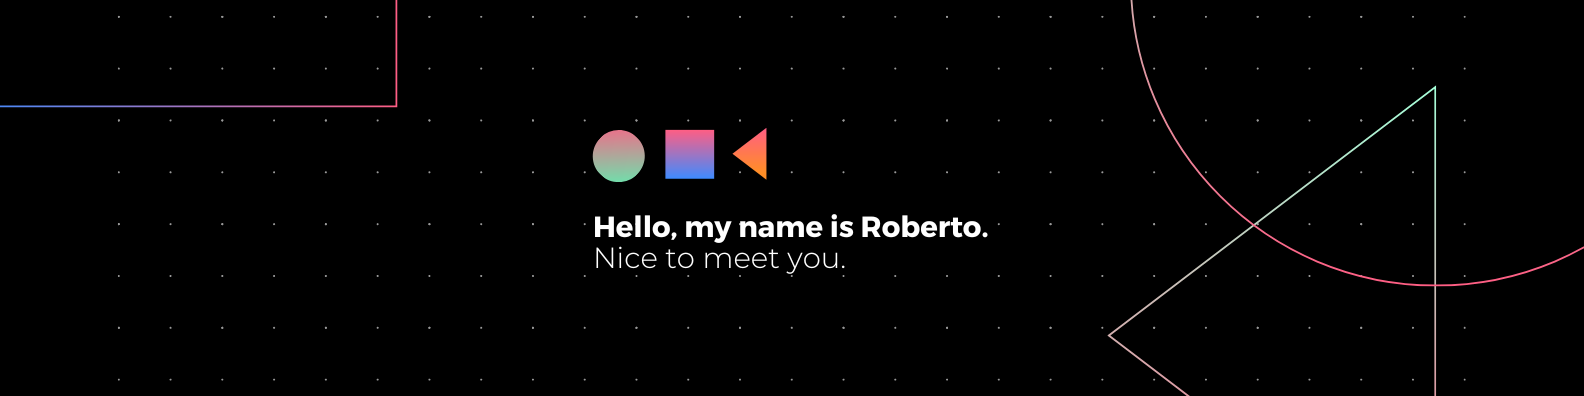
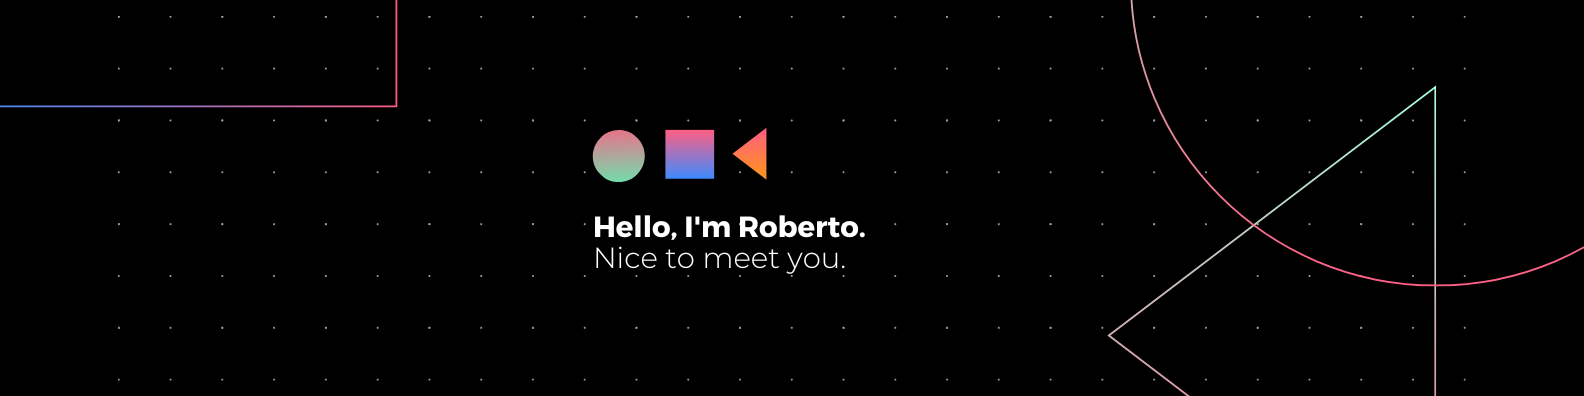
docs: revamp :memo:

Changed region(s): [[0.4331, 0.5455, 0.6187, 0.6061]]

diff --git a/README.md b/README.md
@@ -1,26 +1,35 @@
 ![banner](images/banner.png)
 
-# Hello, I'm Roberto.
+<h1>
+    <picture>
+        <source srcset="https://fonts.gstatic.com/s/e/notoemoji/latest/1f44b_1f3fb/512.webp" type="image/webp">
+        <img src="https://fonts.gstatic.com/s/e/notoemoji/latest/1f44b_1f3fb/512.gif" alt="👋" width="32" height="32">
+    </picture>
+   Hello, I'm Roberto. 
+</h1>
 
 ![Arch](https://img.shields.io/badge/Arch%20Linux-1793D1?logo=arch-linux&logoColor=fff&style=for-the-badge)
 ![iOS](https://img.shields.io/badge/iOS-000000?style=for-the-badge&logo=ios&logoColor=white)
 ![Firefox](https://img.shields.io/badge/Firefox-FF7139?style=for-the-badge&logo=Firefox-Browser&logoColor=white)
 ![PyCharm](https://img.shields.io/badge/pycharm-143?style=for-the-badge&logo=pycharm&logoColor=black&color=black&labelColor=green)
 
-## MSc Artificial Intelligence @ VU Amsterdam
+<h2>
+    <picture>
+        <source srcset="https://fonts.gstatic.com/s/e/notoemoji/latest/1f393/512.webp" type="image/webp">
+        <img src="https://fonts.gstatic.com/s/e/notoemoji/latest/1f393/512.gif" alt="🎓" width="32" height="32">
+    </picture>
+    MSc Artificial Intelligence @ VU Amsterdam
+</h2>
 
-Former software engineer, about to graduate in Artificial Intelligence at Vrije
-Universiteit Amsterdam.
-
-My master's thesis focuses on exploring the benefits of applying Transformers
-and RNN to RL algorithms.
-
-My research interests are AI Safety & Alignment, Reinforcement Learning, NLP.
+I'm a passionate researcher leveraging the power of artificial intelligence and
+deep learning to unlock the limitless potential of intelligent systems, 
+pioneering advancements that shape the future of technology and revolutionize
+the way we interact with the world.
 
 <h2>
     <picture>
-        <source srcset="https://fonts.gstatic.com/s/e/notoemoji/latest/1f6f8/512.webp" type="image/webp">
-        <img src="https://fonts.gstatic.com/s/e/notoemoji/latest/1f6f8/512.gif" alt="🛸" width="32" height="32">
+        <source srcset="https://fonts.gstatic.com/s/e/notoemoji/latest/1f9be/512.webp" type="image/webp">
+        <img src="https://fonts.gstatic.com/s/e/notoemoji/latest/1f9be/512.gif" alt="🦾" width="32" height="32">
     </picture>
     Technical skills
 </h2>
@@ -46,8 +55,8 @@ My research interests are AI Safety & Alignment, Reinforcement Learning, NLP.
 
 <h2>
     <picture>
-        <source srcset="https://fonts.gstatic.com/s/e/notoemoji/latest/1f44b_1f3fb/512.webp" type="image/webp">
-        <img src="https://fonts.gstatic.com/s/e/notoemoji/latest/1f44b_1f3fb/512.gif" alt="👋" width="32" height="32">
+        <source srcset="https://fonts.gstatic.com/s/e/notoemoji/latest/1f48c/512.webp" type="image/webp">
+        <img src="https://fonts.gstatic.com/s/e/notoemoji/latest/1f48c/512.gif" alt="💌" width="32" height="32">
     </picture>
     Connect with me
 </h2>
